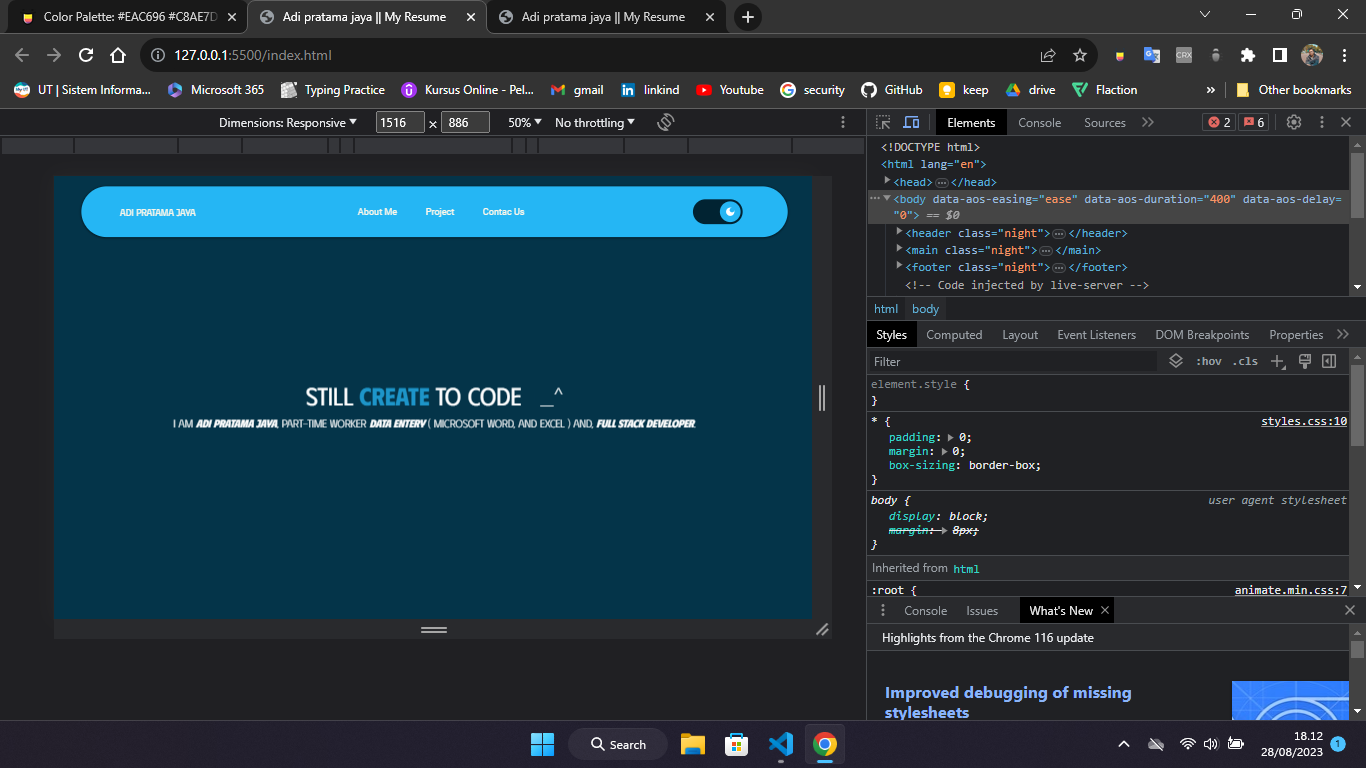
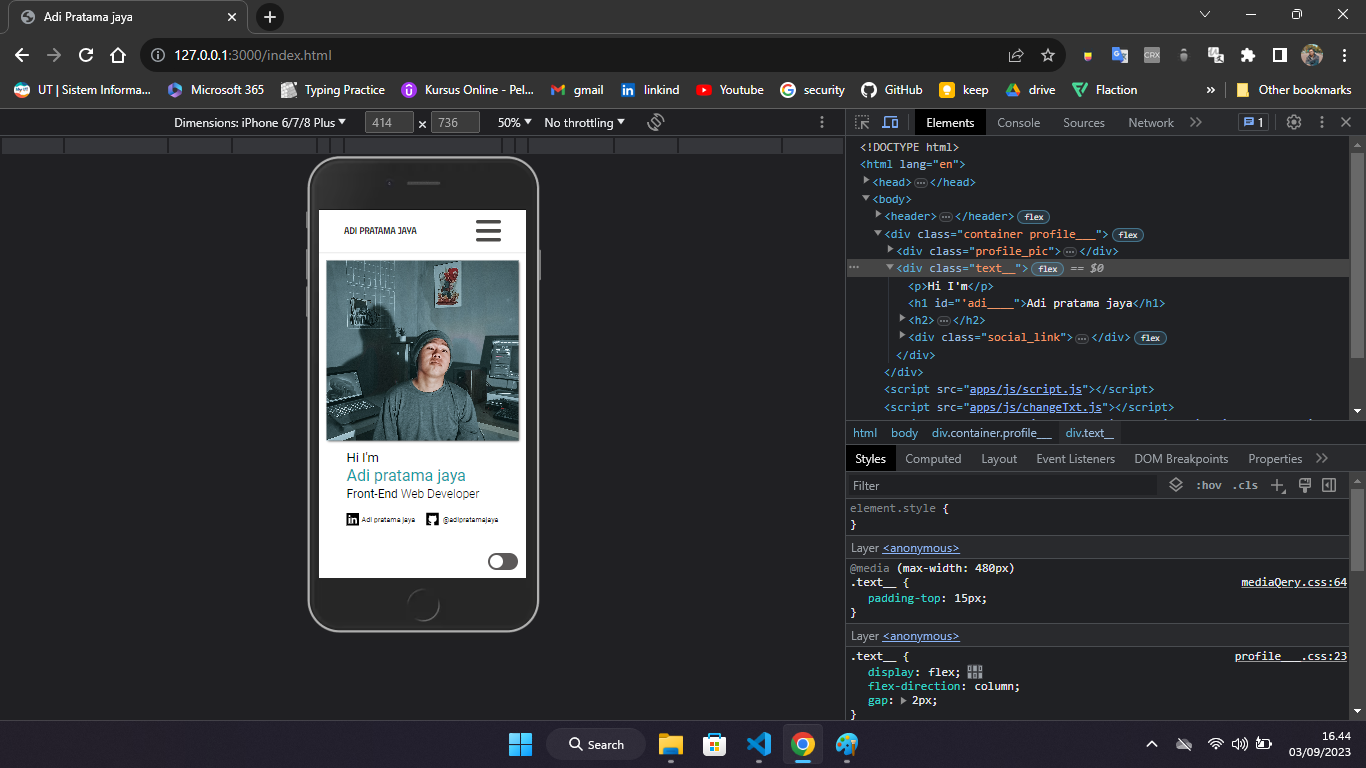
update

diff --git a/apps/style/mediaQuery/mediaQery.css b/apps/style/mediaQuery/mediaQery.css
@@ -36,8 +36,9 @@
     }
     /* menu ios jeung android */
     .navigasi_.menu {
+        z-index: 1;
         transition: 0.5s ease;
-        background-color: rgb(248, 240, 201);
+        background-color: rgb(109, 212, 212);
         display: flex;
         flex-direction: column;
         position: fixed;
@@ -60,23 +61,27 @@
         height: 100%;
     }
     /* text */
+    .text__ {
+        padding-top: 15px;
+    }
     .text__ p {
-        font-size: 0.9rem;
+        font-size: 1.6rem;
     }
     .text__ h1 {
         font-size: 2rem;
     }
     .text__ h2 {
-        font-size: 0.9rem;
+        font-size: 1.5rem;
     }
     #txt_change {
-        font-size: 0.9rem;
+        font-size: 1.5rem;
     }
     /* image */
     .profile_pic img {
-        object-position: -173px 0px;
         border-radius: 0;
+        object-position: center;
         width: 100%;
+        height: 360px;
     }
     .profile_pic {
         width: 100%;

diff --git a/apps/style/path/nav.css b/apps/style/path/nav.css
@@ -118,6 +118,7 @@ header .brand {
   /* ====================== */
   /* hamburger */
   #nengDonat {
+    z-index: 2;
     display: none;
     width: 50px;
     height: 45px;

diff --git a/README.md b/README.md
@@ -1,9 +1,9 @@
 adipratamajaya.github.io
 
-# portofolio website "Adi pratama jaya"
+# Portofolio website "Adi pratama jaya"
 
 Thank you for visiting!
-![alt text](asset/images/after.png)
+![alt text](apps/asset/images/after.png)
 
 <!--
 **adipratamajaya/Adipratamajaya** is a ✨ _special_ ✨ repository because its `README.md` (this file) appears on your GitHub profile.
